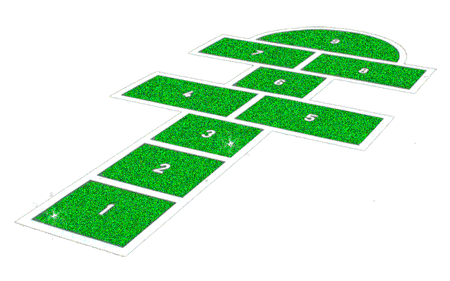
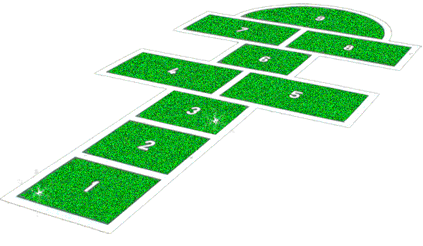
added 3 new blings

diff --git a/assets/js/libs/bootstrapModels.js b/assets/js/libs/bootstrapModels.js
@@ -114,8 +114,8 @@ var Models = [
     "id": "hopscotch", 
     "x": 0, 
     "y": 0, 
-    "width": 143, 
-    "height": 89,
+    "width": 140, 
+    "height": 81,
     "image": "hopscotch", 
     "images": [
       "hopscotch/hopscotch01.png",
@@ -208,6 +208,20 @@ var Models = [
     ]
   },
   {
+    "id": "antigraffiti", 
+    "x": 0, 
+    "y": 0, 
+    "width": 50, 
+    "height": 110,
+    "image": "antigraffiti", 
+    "images": [
+      "antigraffiti/antigraffiti01.png",
+      "antigraffiti/antigraffiti02.png",
+      "antigraffiti/antigraffiti03.png",
+      "antigraffiti/antigraffiti04.png"
+    ]
+  },
+  {
     "id": "solar-street-light", 
     "x": 0, 
     "y": 0, 
@@ -219,22 +233,6 @@ var Models = [
       "solar-street-light/solar-street-light02.png",
       "solar-street-light/solar-street-light03.png",
       "solar-street-light/solar-street-light04.png"
-    ]
-  },
-  {
-    "id": "speedbump", 
-    "x": 0, 
-    "y": 0, 
-    "width": 150, 
-    "height": 81,
-    "image": "speedbump", 
-    "images": [
-      "speedbump/speedbump01.png",
-      "speedbump/speedbump02.png",
-      "speedbump/speedbump03.png",
-      "speedbump/speedbump04.png",
-      "speedbump/speedbump05.png",
-      "speedbump/speedbump06.png"
     ]
   },  
   {
@@ -251,6 +249,49 @@ var Models = [
       "lamp/lamp04.png"
     ]
   },
+  {
+    "id": "speedbump", 
+    "x": 0, 
+    "y": 0, 
+    "width": 140, 
+    "height": 72,
+    "image": "speedbump", 
+    "images": [
+      "speedbump/speedbump01.png",
+      "speedbump/speedbump02.png",
+      "speedbump/speedbump03.png",
+      "speedbump/speedbump04.png",
+      "speedbump/speedbump05.png",
+      "speedbump/speedbump06.png"
+    ]
+  }, 
+  {
+    "id": "drain", 
+    "x": 0, 
+    "y": 0, 
+    "width": 120, 
+    "height": 61,
+    "image": "drain", 
+    "images": [
+      "drain/drain01.png",
+      "drain/drain02.png",
+      "drain/drain03.png"
+    ]
+  }, 
+    {
+    "id": "crosswalk", 
+    "x": 0, 
+    "y": 0, 
+    "width": 140, 
+    "height": 62,
+    "image": "crosswalk", 
+    "images": [
+      "crosswalk/crosswalk01.png",
+      "crosswalk/crosswalk02.png",
+      "crosswalk/crosswalk03.png",
+      "crosswalk/crosswalk04.png"
+    ]
+  },  
   {
     "id": "bikerack", 
     "x": 0, 
